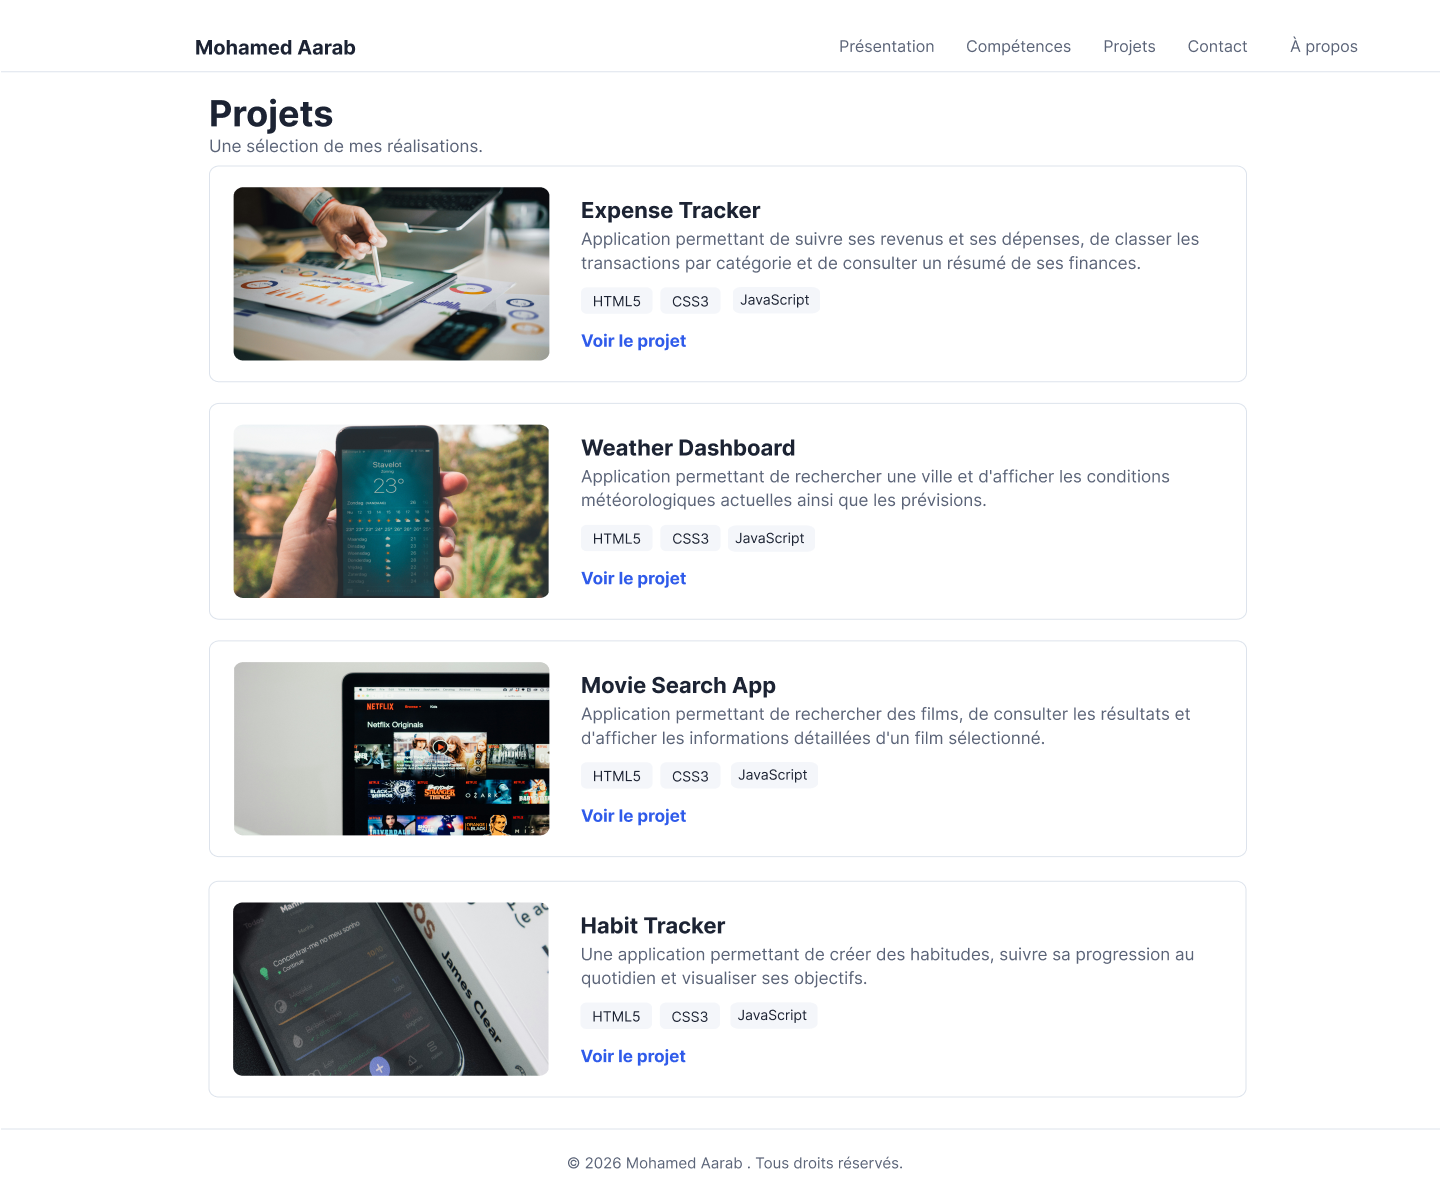
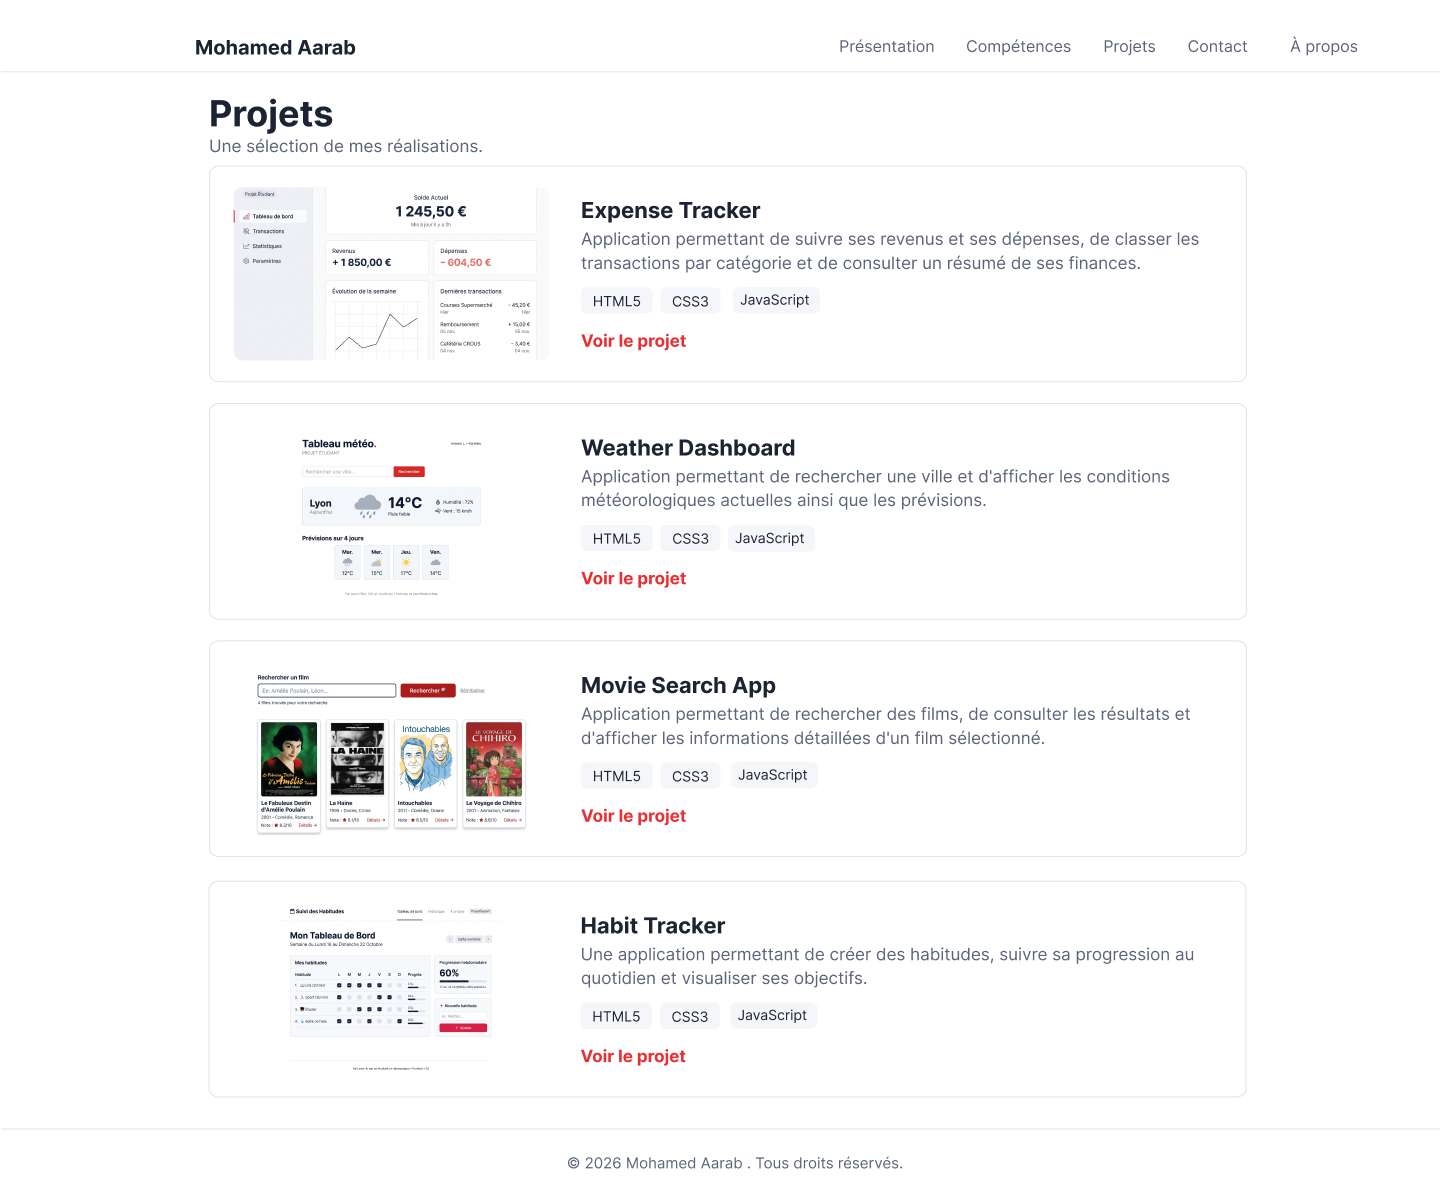
changes on the maquette & added a propos to the header

Changed region(s): [[0.1562, 0.3389, 0.4688, 0.7086], [0.1562, 0.7394, 0.4688, 0.8934], [0.1562, 0.154, 0.4688, 0.3081]]

diff --git a/site/index.html b/site/index.html
@@ -4,7 +4,7 @@
   <meta charset="UTF-8">
   <meta name="viewport" content="width=device-width, initial-scale=1.0">
   <meta name="description" content="Portfolio de Mohamed Aarab, apprenant développeur web.">
-  <title>Prénom Nom — Portfolio</title>
+  <title>Mohamed Aarab — Portfolio</title>
 
   <!-- Police Inter (Google Fonts) -->
   <link rel="preconnect" href="https://fonts.googleapis.com">
@@ -18,13 +18,14 @@
   <!-- ========== EN-TÊTE ========== -->
   <header class="en-tete">
     <div class="conteneur en-tete__contenu">
-      <a class="logo" href="#presentation">Prénom Nom</a>
+      <a class="logo" href="#presentation">Mohamed Aarab</a>
       <nav aria-label="Navigation principale">
         <ul class="menu">
           <li><a href="#presentation">Présentation</a></li>
-          <li><a href="a-propos.html">Compétences</a></li>
+          <li><a href="#competences">Compétences</a></li>
           <li><a href="projets.html">Projets</a></li>
           <li><a href="contact.html">Contact</a></li>
+          <li><a href="a-propos.html">À propos</a></li>
         </ul>
       </nav>
     </div>
@@ -37,18 +38,34 @@
       <div class="conteneur presentation__contenu">
         <div class="presentation__texte">
           <p class="surtitre">Bonjour, je suis</p>
-          <h1>Prénom Nom</h1>
+          <h1>Mohamed Aarab</h1>
           <p class="metier">Apprenant développeur web</p>
           <p>Écrivez ici quelques lignes pour vous présenter : qui vous êtes, ce que vous apprenez en ce moment et le type de projets qui vous intéresse.</p>
-          <a class="bouton" href="#projets">Voir mes projets</a>
+          <a class="bouton" href="projets.html">Voir mes projets</a>
         </div>
-        <img class="presentation__photo" src="images/about-me.webp" alt="Portrait de Prénom Nom" width="280" height="280">
+        <img class="presentation__photo" src="images/about-me.webp" alt="Portrait de Mohamed Aarab" width="280" height="280">
+      </div>
+    </section>
+
+      <!-- ========== COMPÉTENCES ========== -->
+    <section id="competences" class="section section--claire">
+      <div class="conteneur">
+        <h2>Compétences</h2>
+        <p class="section__intro">Les technologies et outils que j'utilise.</p>
+        <ul class="competences">
+          <li>HTML5</li>
+          <li>CSS3</li>
+          <li>Git</li>
+          <li>GitHub</li>
+          <li>Figma</li>
+          <li>SQL</li>
+        </ul>
       </div>
     </section>
   <!-- ========== PIED DE PAGE ========== -->
   <footer class="pied">
     <div class="conteneur">
-      <p>© 2026 Prénom Nom. Tous droits réservés.</p>
+      <p>© 2026 Mohamed Aarab. Tous droits réservés.</p>
     </div>
   </footer>
 

diff --git a/site/projets.html b/site/projets.html
@@ -21,10 +21,11 @@
       <a class="logo" href="#presentation">Mohamed Aarab </a>
       <nav aria-label="Navigation principale">
         <ul class="menu">
-          <li><a href="#presentation">Présentation</a></li>
-          <li><a href="#competences">Compétences</a></li>
-          <li><a href="#projets">Projets</a></li>
-          <li><a href="#contact">Contact</a></li>
+          <li><a href="index.html">Présentation</a></li>
+          <li><a href="index.html">Compétences</a></li>
+          <li><a href="projets.html">Projets</a></li>
+          <li><a href="contact.html">Contact</a></li>
+          <li><a href="a-propos.html">À propos</a></li>
         </ul>
       </nav>
     </div>
@@ -39,7 +40,7 @@
         <div class="projets">
 
           <article class="projet">
-            <img class="projet__image" src="images/pro1.jpg" alt="Aperçu du projet 1" width="320" height="200">
+            <img class="projet__image" src="images/projet1.jpg" alt="Aperçu du projet 1" width="320" height="240">
             <div class="projet__texte">
               <h3>Expense Tracker</h3>
               <p>Track income and expenses, categorize transactions, and display spending 
@@ -54,7 +55,7 @@
           </article>
 
           <article class="projet">
-            <img class="projet__image" src="images/pro2.jpg" alt="Aperçu du projet 2" width="320" height="200">
+            <img class="projet__image" src="images/projet2.jpg" alt="Aperçu du projet 2" width="320" height="240">
             <div class="projet__texte">
               <h3>Weather Dashboard</h3>
               <p>Search for a city and view current weather conditions, temperature, and 
@@ -70,7 +71,7 @@
           </article>
 
           <article class="projet">
-            <img class="projet__image" src="images/pro3.jpg" alt="Aperçu du projet 3" width="320" height="200">
+            <img class="projet__image" src="images/projet3.jpg" alt="Aperçu du projet 3" width="320" height="240">
             <div class="projet__texte">
               <h3>Movie Search App</h3>
               <p>Search for movies, explore results, and view detailed information about 
@@ -85,7 +86,7 @@
             </div>
           </article>
           <article class="projet">
-            <img class="projet__image" src="images/pro4.jpg" alt="Aperçu du projet 3" width="320" height="200">
+            <img class="projet__image" src="images/projet4.jpg" alt="Aperçu du projet 3" width="320" height="240">
             <div class="projet__texte">
               <h3>Habit Tracker</h3>
               <p>Une application permettant de créer des habitudes, suivre sa progression au 

diff --git a/site/a-propos.html b/site/a-propos.html
@@ -21,30 +21,17 @@
       <a class="logo" href="#presentation">Mohamed Aarab </a>
       <nav aria-label="Navigation principale">
         <ul class="menu">
-          <li><a href="#presentation">Présentation</a></li>
-          <li><a href="#competences">Compétences</a></li>
-          <li><a href="#projets">Projets</a></li>
-          <li><a href="#contact">Contact</a></li>
+          <li><a href="index.html">Présentation</a></li>
+          <li><a href="index.html">Compétences</a></li>
+          <li><a href="projets.html">Projets</a></li>
+          <li><a href="contact.html">Contact</a></li>
+          <li><a href="a-propos.html">À propos</a></li>
         </ul>
       </nav>
     </div>
   </header>
 
-  <!-- ========== COMPÉTENCES ========== -->
-    <section id="competences" class="section section--claire">
-      <div class="conteneur">
-        <h2>Compétences</h2>
-        <p class="section__intro">Les technologies et outils que j'utilise.</p>
-        <ul class="competences">
-          <li>HTML5</li>
-          <li>CSS3</li>
-          <li>Git</li>
-          <li>GitHub</li>
-          <li>Figma</li>
-          <li>SQL</li>
-        </ul>
-      </div>
-    </section>
+
 
     <!-- ========== PIED DE PAGE ========== -->
   <footer class="pied">

diff --git a/site/contact.html b/site/contact.html
@@ -21,10 +21,11 @@
       <a class="logo" href="#presentation">Mohamed Aarab </a>
       <nav aria-label="Navigation principale">
         <ul class="menu">
-          <li><a href="#presentation">Présentation</a></li>
-          <li><a href="#competences">Compétences</a></li>
-          <li><a href="#projets">Projets</a></li>
-          <li><a href="#contact">Contact</a></li>
+          <li><a href="index.html">Présentation</a></li>
+          <li><a href="index.html">Compétences</a></li>
+          <li><a href="projets.html">Projets</a></li>
+          <li><a href="contact.html">Contact</a></li>
+          <li><a href="a-propos.html">À propos</a></li>
         </ul>
       </nav>
     </div>
@@ -50,8 +51,8 @@
         </form>
 
         <ul class="reseaux">
-          <li><a class="lien" href="#">GitHub</a></li>
-          <li><a class="lien" href="#">LinkedIn</a></li>
+          <li><a class="lien" href="https://github.com/MohaAarab/bref-1.git">GitHub</a></li>
+          <li><a class="lien" href="https://www.linkedin.com/">LinkedIn</a></li>
         </ul>
       </div>
     </section>

diff --git a/site/css/style.css b/site/css/style.css
@@ -207,7 +207,7 @@ a {
 
 .projet__image {
   width: 320px;
-  height: 200px;
+  height: 240px;
   border-radius: var(--rayon);
 }
 
